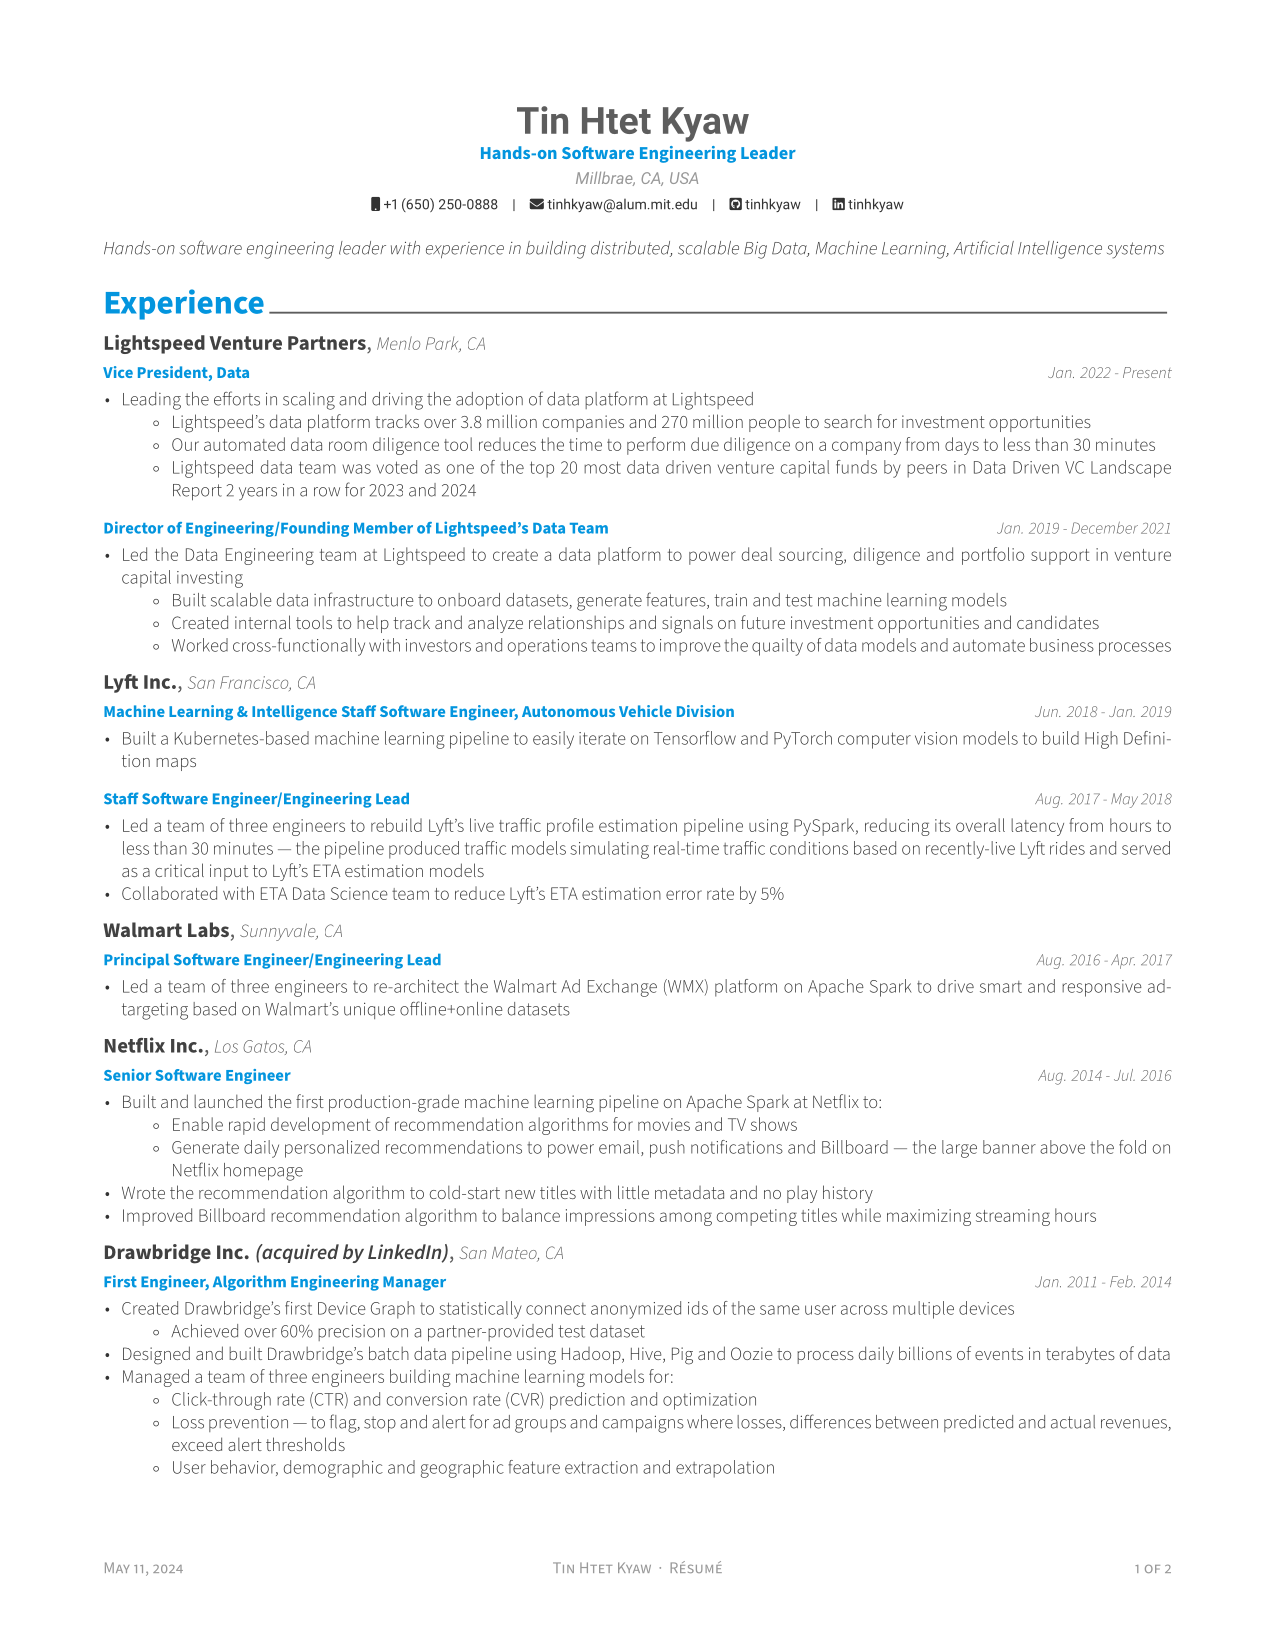
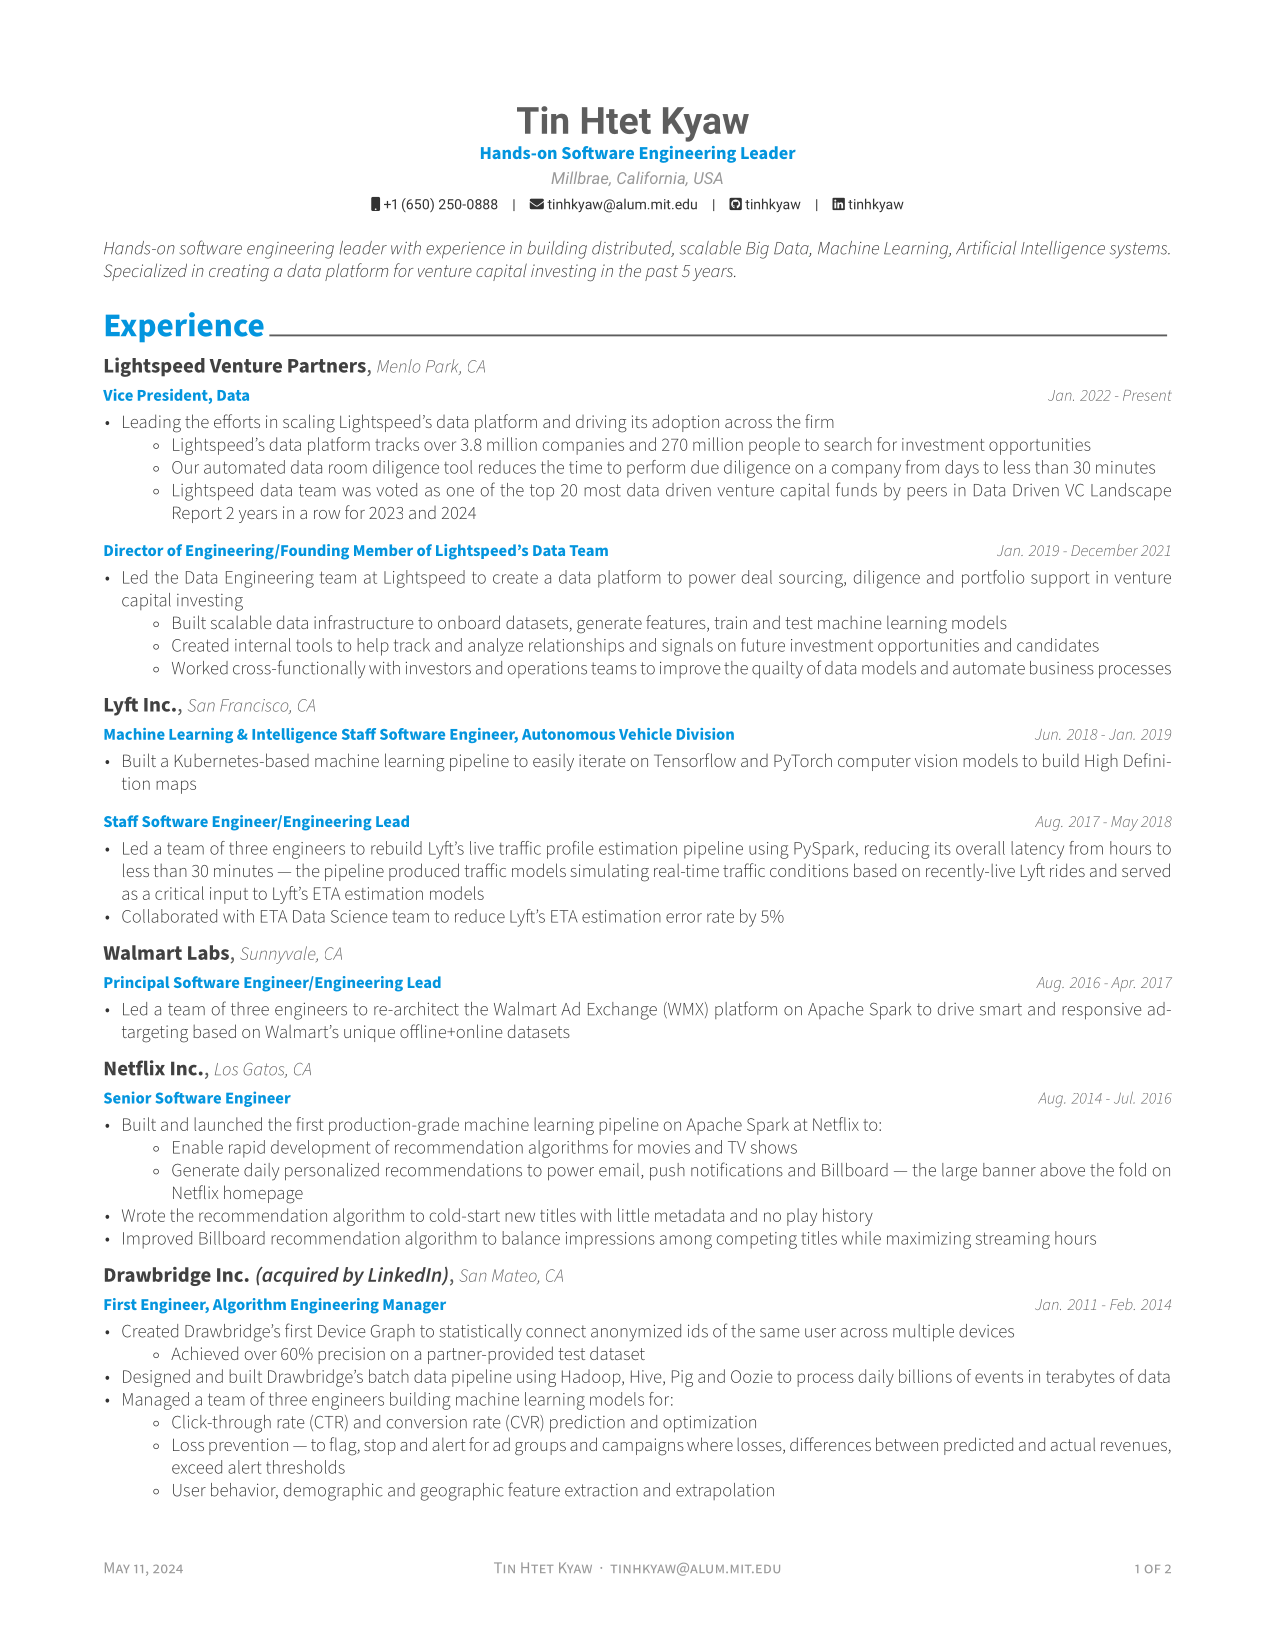
updates

diff --git a/resume/experience.tex b/resume/experience.tex
@@ -17,7 +17,7 @@
   {Jan. 2022 - Present} % Date(s)
   {
     \begin{cvitems} % Description(s) of tasks/responsibilities
-      \item{Leading the efforts in scaling and driving the adoption of data platform at Lightspeed}
+      \item{Leading the efforts in scaling Lightspeed's data platform and driving its adoption across the firm}
       \begin{itemize}[label=$\circ$]
         \item{Lightspeed's data platform tracks over 3.8 million companies and 270 million people to search for investment opportunities}
         \item{Our automated data room diligence tool reduces the time to perform due diligence on a company from days to less than 30 minutes}

diff --git a/resume/summary.tex b/resume/summary.tex
@@ -5,7 +5,7 @@
 
   %---------------------------------------------------------
   \vspace{4mm}
-  \emph{Hands-on software engineering leader with experience in building distributed, scalable Big Data, Machine Learning, Artificial Intelligence systems}
-
+  \emph{Hands-on software engineering leader with experience in building distributed, scalable Big Data, Machine Learning, Artificial Intelligence systems.
+    Specialized in creating a data platform for venture capital investing in the past 5 years.}
   %---------------------------------------------------------
 \end{cvparagraph}

diff --git a/resume/tinhkyaw-resume.tex b/resume/tinhkyaw-resume.tex
@@ -58,7 +58,7 @@
 % \photo[rectangle,edge,right]{profile}
 \name{Tin Htet Kyaw}{}
 \position{Hands-on Software Engineering Leader}
-\address{Millbrae, CA, USA}
+\address{Millbrae, California, USA}
 
 \mobile{+1 (650) 250-0888}
 \email{tinhkyaw@alum.mit.edu}
@@ -84,7 +84,7 @@
 % Leave any of these blank if they are not needed
 \makecvfooter
 {\today}
-{Tin Htet Kyaw~~·~~Résumé}
+{Tin Htet Kyaw~~·~~tinhkyaw@alum.mit.edu}
 {\thepage~of~\pageref{LastPage}}
 
 %-------------------------------------------------------------------------------
